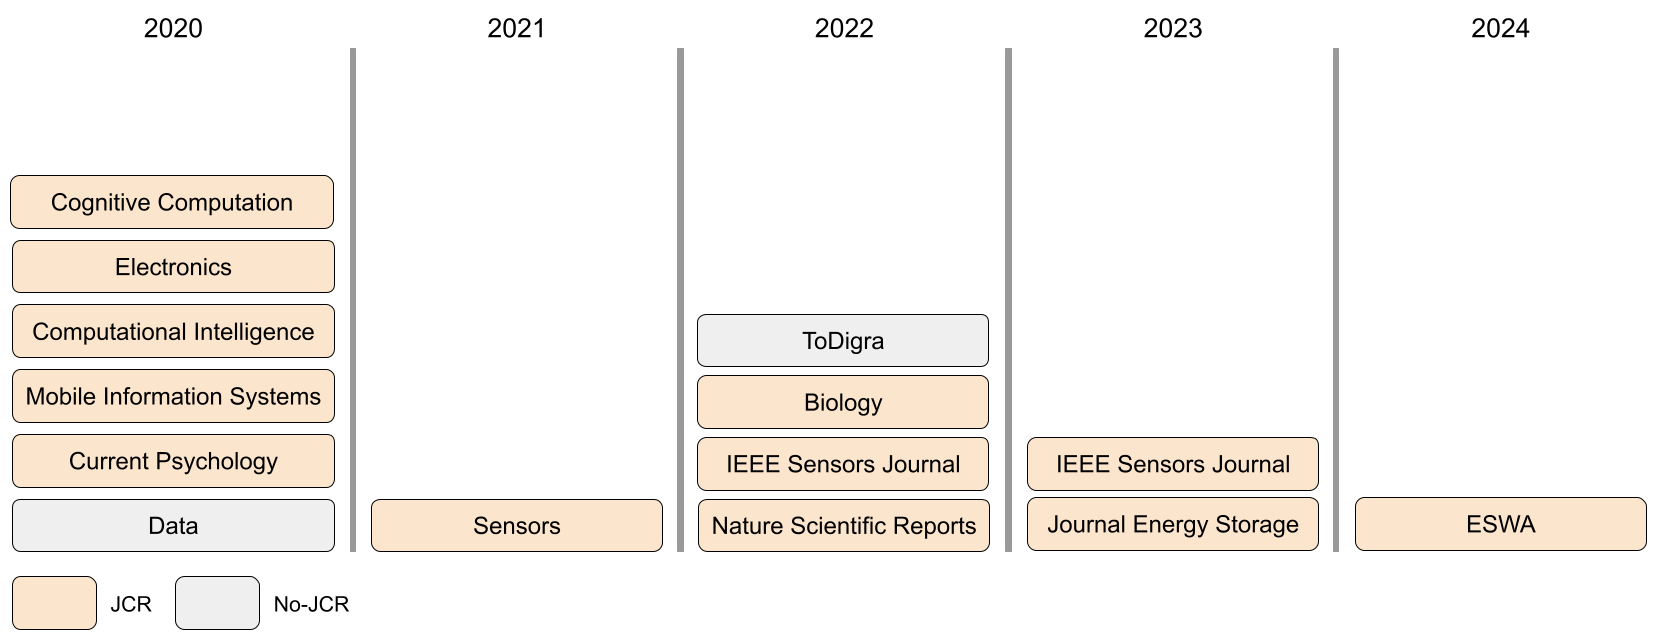
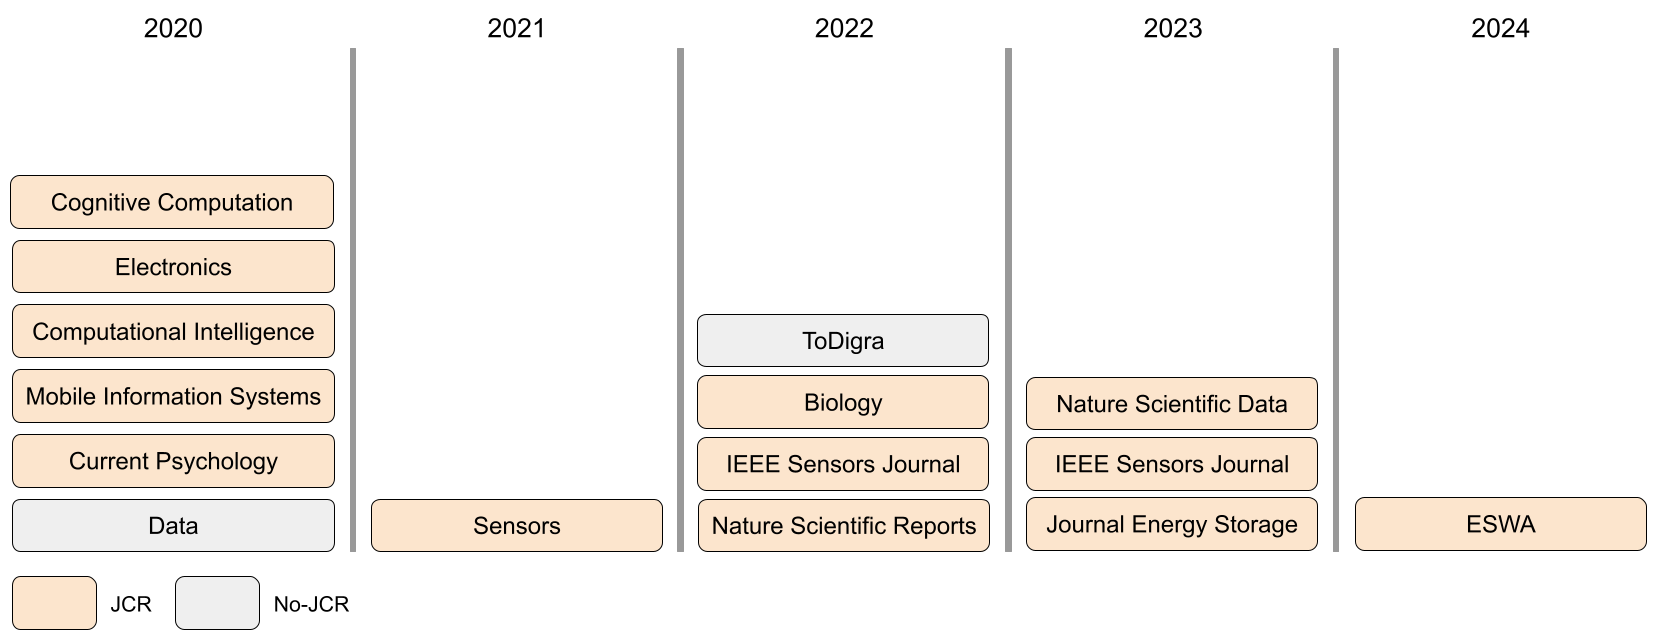
sdata

Changed region(s): [[0.6148, 0.5676, 0.7993, 0.6871], [0.6148, 0.8066, 0.7993, 0.8365], [0.6148, 0.717, 0.7993, 0.7469]]

diff --git a/publications.html b/publications.html
@@ -110,7 +110,13 @@
 				</div>
 			</div>
 
-	
+				<div class="row animate-box">
+				<div class="col-md-8 col-md-offset-2 text-center heading-section">
+					<p>Abraham Batalla-Gavalda, Raul Montoliu, Jose Vicente Beltrán-Garrido, Francesc Corbi. 
+					<b>A new database of the analysis of the physiological needs in amateur female basketball during official matches</b> Scientific Data volume 10, Article number: 854 (2023). <a href="https://www.nature.com/articles/s41597-023-02747-2">https://www.nature.com/articles/s41597-023-02747-2</a>. Dataset:<a href="https://zenodo.org/records/10054915">https://zenodo.org/records/10054915</a>. 
+            		</p>
+				</div>
+			</div>	
 
 			<div class="row animate-box">
 				<div class="col-md-8 col-md-offset-2 text-center heading-section">
